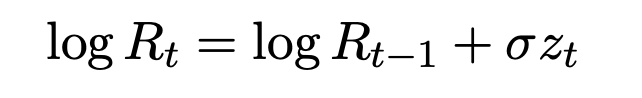
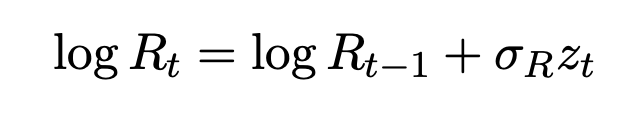
Add model description table Update formulae

Changed region(s): [[0.3115, 0.2143, 0.9346, 0.7347], [0.0623, 0.2143, 0.2804, 0.7041]]

diff --git a/documentation/formula.tex b/documentation/formula.tex
@@ -8,18 +8,32 @@
 \usepackage{amssymb}
 \usepackage{amsmath}
 \usepackage{subfig}
+\renewcommand{\arraystretch}{1.5}
 
 \begin{document}
 Formulas for the documentation.
 \begin{equation}
-I_t = \sum_{k=1}^{t_g} I_{t-k} g_k
+I_t = R_t \sum_{k=1}^{t_g} I_{t-k} g_k
 \end{equation}
 \begin{equation}
-\log R_t = \log R_{t-1} + \sigma z_t
+\log R_t = \log R_{t-1} + \sigma_R z_t
 \end{equation}
 \begin{equation}
 C_t \sim {\rm NB}(I_t,\phi_{\rm od})
 \end{equation}
+
+\begin{table}[]
+\begin{tabular}{l|l|l|l}
+{\bf Description } & {\bf Model }&  {\bf Parameters } & {\bf  Priors  }  \\ \hline
+generation time & $g_t = f_{\Gamma}(t; \mu_g,\sigma_g)$ & $\mu_g$ - mean generation time  &  $\mu_g \sim U(\mu_{g,\rm min}, \mu_{g,\rm max}) $\\
+&  & $\sigma_g$ - s.d. generation time  & $\sigma_g \sim U(\sigma_{g,\rm min}, \sigma_{g,\rm max}) $ \\ \hline
+renewal equation & $I_t = R_t \sum\limits_{k=1}^{t_g} I_{t-k} g_k$  & & \\ \hline
+$R(t)$ process & $\log R_t = \log R_{t-1} + \sigma_R z_t$ & $\sigma_R$ - mean daily change in $\log R_t $& $\sigma_R \sim U(0.001,1)$ \\
+& & $R_0$ - initial value of R & $R_0 \sim U(R_{0,\rm min}, R_{0,\rm max})$ \\
+& & $z_t$ - daily change in $\log R_t $ & $z_t \sim N(0,1)$ i.i.d \\ \hline
+observed cases & $C_t \sim {\rm NB}(I_t,\phi_{\rm od})$ & $\phi_{\rm od}$ - observation over-dispersion & $\phi_{\rm od} \sim U(0,\phi_{\rm od,max})$
+\end{tabular}
+\end{table}
 
 
 \end{document}
